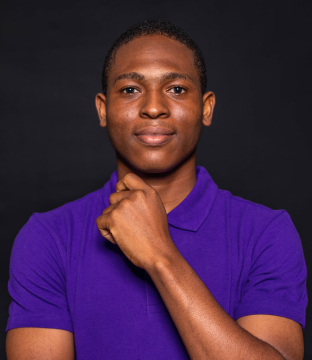
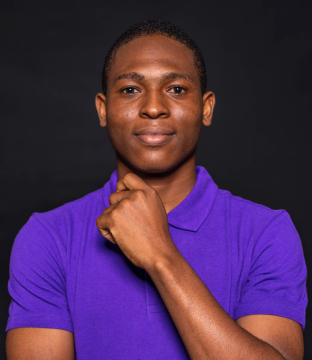
add grayscale effect to team images

Changed region(s): [[0.0, 0.4583, 0.6058, 1.0], [0.5192, 0.4583, 1.0, 0.9167]]

diff --git a/src/components/Team/team.scss b/src/components/Team/team.scss
@@ -1,20 +1,25 @@
 @import "../../scss/default/color_variable";
+
 .cs-team.cs-style1 {
   overflow: hidden;
   position: relative;
+
   .cs-member_thumb {
     border-radius: 15px;
     position: relative;
     overflow: inherit;
     overflow: hidden;
+
     img {
       width: 100%;
       position: relative;
       z-index: 1;
       border-radius: inherit;
       transition: all 0.8s ease;
+      filter: grayscale(100%);
     }
   }
+
   .cs-member_overlay {
     position: absolute;
     height: 100%;
@@ -24,16 +29,19 @@
     border-radius: inherit;
     background: linear-gradient(360deg, #000000 0%, rgba(77, 77, 77, 0) 100%);
   }
+
   .cs-member_social {
     svg {
       height: 20px;
       width: 20px;
     }
   }
+
   .cs-member_name {
     font-size: 22px;
     margin-bottom: 6px;
   }
+
   .cs-member_info {
     position: absolute;
     left: 0;
@@ -42,6 +50,7 @@
     z-index: 3;
     padding: 30px 25px;
   }
+
   .cs-member_social {
     position: absolute;
     z-index: 2;
@@ -49,6 +58,7 @@
     top: 50px;
     display: flex;
     flex-direction: column;
+
     a {
       display: flex;
       margin: 12px;
@@ -57,6 +67,7 @@
       transition: all 0.4s ease;
     }
   }
+
   &:hover {
     .cs-member_social {
       a {
@@ -67,12 +78,14 @@
     .cs-member_thumb {
       img {
         transform: scale(1.06) translateY(8px);
+        filter: grayscale(0%);
       }
     }
   }
 }
+
 @media screen and (max-width: 1380px) {
-.cs-team.cs-style1 .cs-member_name {
-  font-size: 20px;
-}
+  .cs-team.cs-style1 .cs-member_name {
+    font-size: 20px;
+  }
 }

diff --git a/src/components/Pages/Home.jsx b/src/components/Pages/Home.jsx
@@ -83,7 +83,7 @@ const portfolioData = [
 ];
 
 export default function Home() {
-  pageTitle('Home');
+  pageTitle('Accueil');
 
   useEffect(() => {
     window.scrollTo(0, 0);
